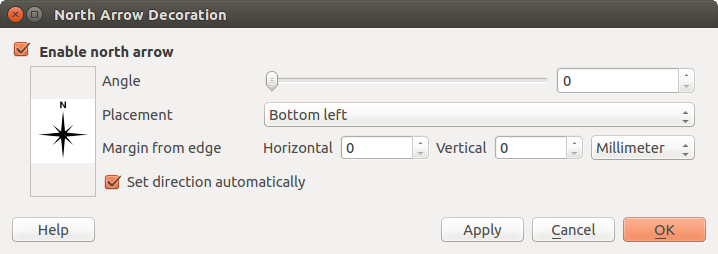
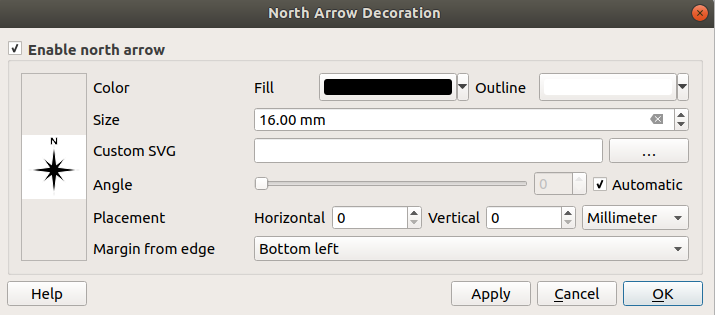
Update documentation of north arrow decoration, including new picture of dialog.

diff --git a/source/docs/user_manual/introduction/general_tools.rst b/source/docs/user_manual/introduction/general_tools.rst
@@ -811,16 +811,8 @@ followed by the date in the lower right-hand corner of the map canvas.
 North Arrow
 ...........
 
-|northArrow| :sup:`North Arrow` places a simple north arrow on the map canvas.
-Currently, there is only one style available. You can adjust the angle of the
-arrow or let QGIS set the direction automatically.
-If you choose to let QGIS determine the direction, it makes its best guess
-as to how the arrow should be oriented.
-For placement of the arrow, you have four options, corresponding to
-the four corners of the map canvas.
-You can refine the placement of the arrow by setting a Horizontal and/or Vertical
-`Marging from (Canvas) Edge`. These values can be a distance in **Millimeter** or
-**Pixels** or set as **Percentage** of the width or height of the map canvas.
+|northArrow| :sup:`North Arrow` adds a north arrow on the map canvas.
+You can control the style and placement of the north arrow.
 
 .. _figure_decorations_north:
 
@@ -828,6 +820,21 @@ You can refine the placement of the arrow by setting a Horizontal and/or Vertica
    :align: center
 
    The North Arrow Dialog
+
+To add a north arrow:
+
+#. Select from menu :menuselection:`View --> Decorations --> North Arrow`.
+   The dialog starts (see figure_decorations_north_).
+#. Make sure the |checkbox| :guilabel:`Enable north arrow` checkbox is checked.
+#. Optionally, change the color, size or choose a custom svg.
+#. Optionally, change the angle or choose **Automatic** to let QGIS determine the
+   direction.
+#. Optionally, choose the placement from the Placement combo box.
+#. Optionally, refine the placement of the arrow by setting a Horizontal and/or Vertical
+   `Marging from (Canvas) Edge`. These values can be a distance in **Millimeter** or
+   **Pixels** or set as **Percentage** of the width or height of the map canvas.
+#. Click **[Apply]** to verify that it looks as expected and **[OK]** if you're satisfied.
+
 
 .. index:: Scale bar
 .. _scalebar_decoration:
